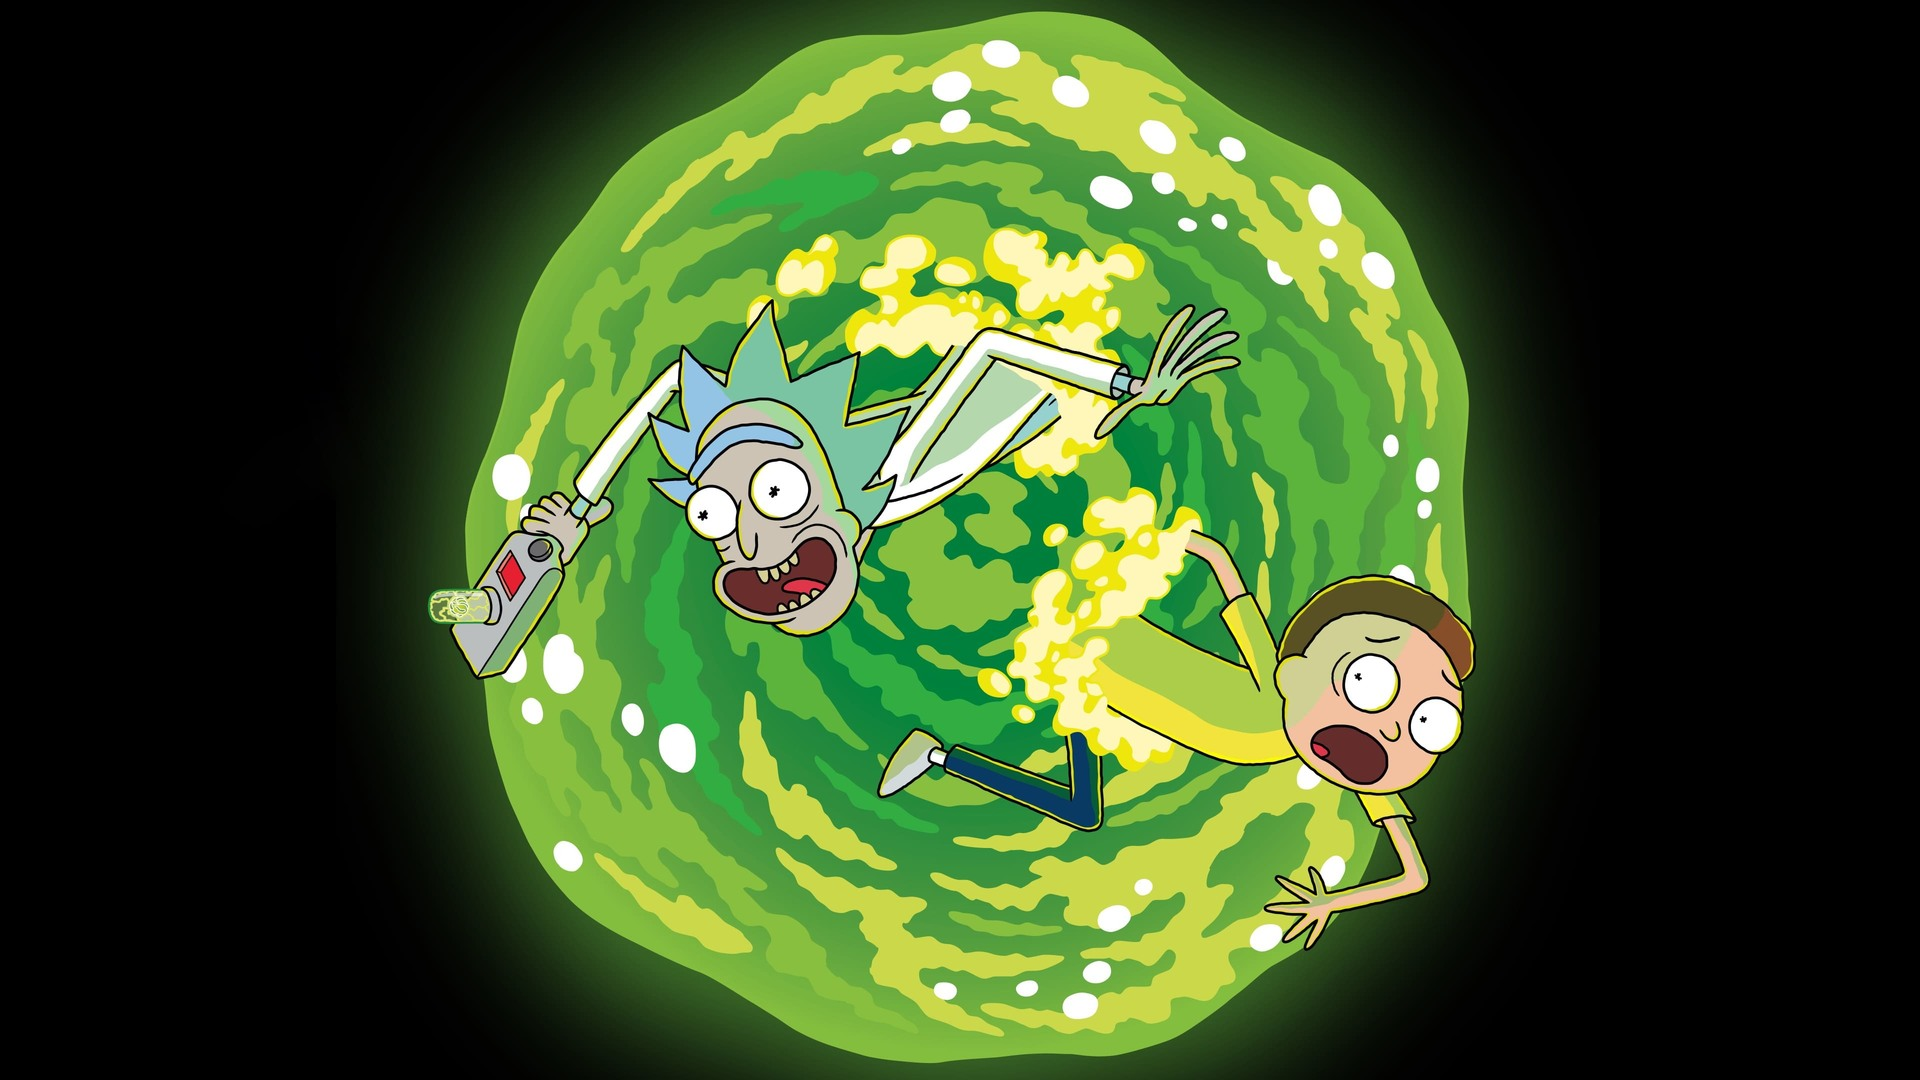
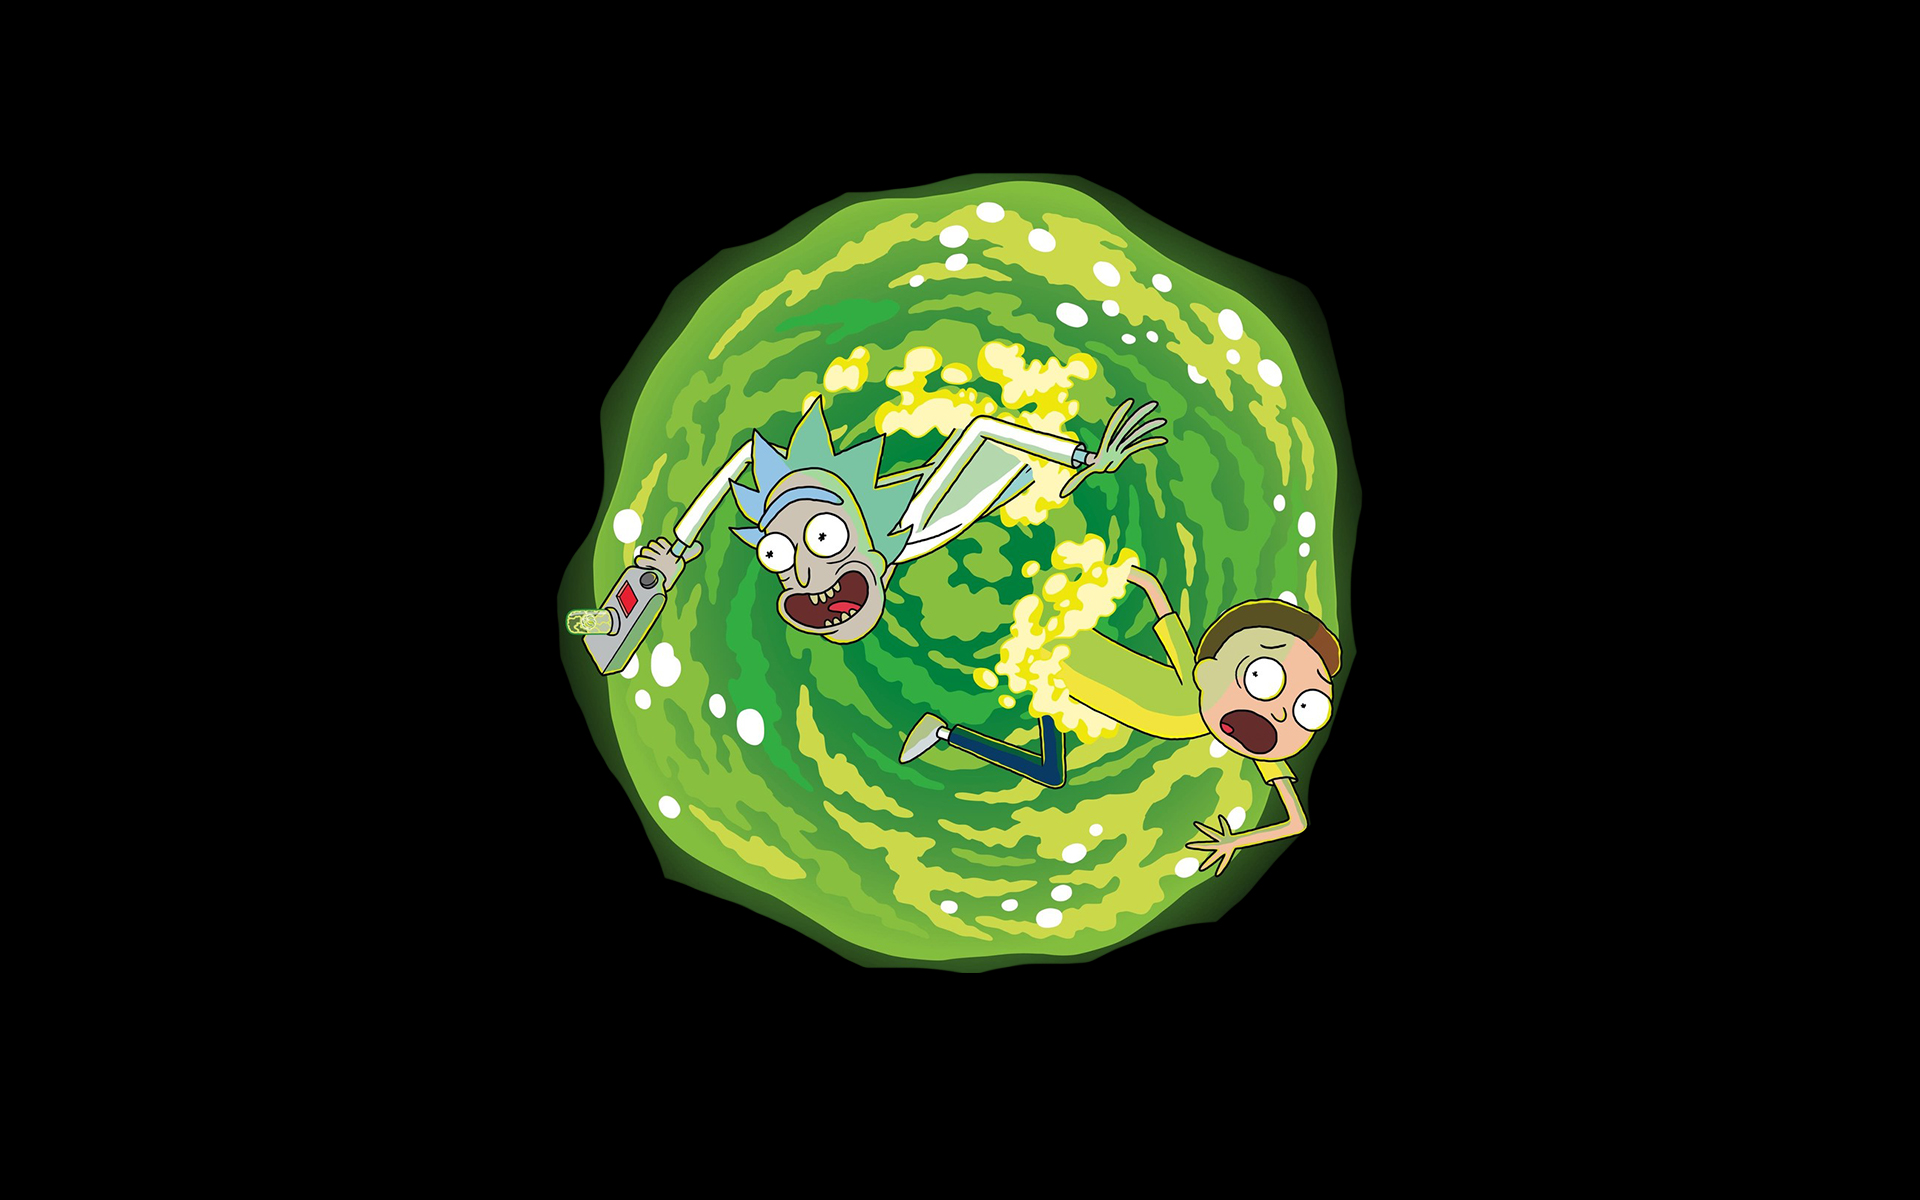
input states with stringify alert output test

diff --git a/src/components/Search.js b/src/components/Search.js
@@ -1,0 +1,38 @@
+import React, { useState } from "react";
+// Importing a SCSS file
+import "../scss/search.scss";
+
+export default function Search() {
+  const [inputName, setInputName] = useState({});
+
+  const handleChange = ({ target }) => {
+    const { name, value } = target;
+    setInputName({
+      [name]: value,
+    });
+  };
+
+  const handleSubmit = (event) => {
+    event.preventDefault();
+    // test alert
+    alert(JSON.stringify(inputName));
+  };
+
+  return (
+    <section>
+      <form onSubmit={handleSubmit} className="searchInputs">
+        <input
+          value={inputName.characterName || ""}
+          onChange={handleChange}
+          type="text"
+          name="characterName"
+          placeholder="Character Name"
+          className="searchSection"
+        />
+        <button type="submit" className="searchIcon searchSection button">
+          <img src="../images/search/pickle-rick.png" alt="search Icon" />
+        </button>
+      </form>
+    </section>
+  );
+}

diff --git a/src/App.js b/src/App.js
@@ -4,11 +4,8 @@ import { BrowserRouter as Router, Route } from "react-router-dom";
 // Importing components
 import Footer from "./components/Footer";
 // Importing Pages
-import Landing from "./pages/Landing";
-// Importing a CSS file
-import "./css/landing.css";
-
-import App from "./App";
+import Nav from "./components/Nav";
+import Landing from "./components/Landing";
 
 const client = new ApolloClient({
   uri: "https://rickandmortyapi.com/graphql",
@@ -19,7 +16,7 @@ export default function App() {
   return (
     <ApolloProvider client={client}>
       <Router>
-        <Navtop />
+        <Nav />
         <Route exact path="/">
           <Landing />
         </Route>

diff --git a/src/scss/search.scss b/src/scss/search.scss
@@ -1,0 +1,36 @@
+.searchInputs {
+  margin: 0;
+  position: absolute;
+  top: 45%;
+  left: 50%;
+  -ms-transform: translate(-50%, -50%);
+  transform: translate(-50%, -50%);
+}
+
+.searchInputs input {
+  border: 2px solid black;
+  width: 400px;
+  padding: 12px 20px;
+  margin: 5px 0;
+  box-sizing: border-box;
+}
+
+.searchIcon img {
+  width: 30px;
+  padding: 0px 0px 0px 0px;
+  margin: -11px 0px;
+  cursor: pointer;
+}
+
+.searchSection {
+  display: inline-block;
+}
+
+.button {
+  background-color: #000000;
+  border: none;
+  padding: 14px 8px;
+  text-align: center;
+  text-decoration: none;
+  display: inline-block;
+}

diff --git a/src/components/Landing.js b/src/components/Landing.js
@@ -1,13 +1,16 @@
+import Search from "../components/Search";
 // Importing a SCSS file
 import "../scss/landing.scss";
+// Importing Objects
+import { landingbackground } from "../utils/objects";
 
 export default function Landing() {
   return (
     <section className="Landing">
-      <video autoplay muted loop id="myVideo">
-        <source src="intro.mp4" type="video/mp4" />
-        Your browser does not support HTML5 video.
-      </video>
+      <style scoped>{landingbackground}</style>
+      <div className="backgimage background">
+        <Search />
+      </div>
     </section>
   );
 }

diff --git a/src/components/nav.js b/src/components/nav.js
@@ -1,12 +1,16 @@
 import { Link } from "react-router-dom";
 // Import SCSS File Dependency
+import "../scss/colors.scss";
 import "../scss/nav.scss";
 
 export default function Navtop() {
   return (
     <nav className="nav">
       <Link className="links active" to="/">
-        <img src="images/nav/nav-logo.png" alt="Rick and Morty" />
+        <img
+          src="images/nav/rickandmorty.png"
+          alt="Rick and Morty"
+        />
       </Link>
     </nav>
   );

diff --git a/src/scss/nav.scss b/src/scss/nav.scss
@@ -1,0 +1,34 @@
+$backGroundColor: #000000;
+
+.nav {
+  background-color: $backGroundColor;
+  height: 10vh;
+  width: 100vw;
+}
+
+nav {
+  img {
+    height: 100%;
+    padding: 0px 0px 0px 1%;
+  }
+}
+
+* {
+  margin: 0;
+  padding: 0;
+}
+
+html,
+body {
+  margin: 0;
+  padding: 0;
+  max-width: 100vw;
+  height: 100vh;
+  overflow-x: hidden;
+  scroll-behavior: smooth;
+  background-color: #000000;
+}
+
+::-webkit-scrollbar {
+  display: none;
+}

diff --git a/src/components/Card.js b/src/components/Card.js
@@ -1,0 +1,16 @@
+import { useQuery } from "@apollo/client";
+// Importing a SCSS file
+import "../scss/card.scss";
+// Importing Queries
+import { QUERY_CHARACTER } from "../utils/queries";
+
+export default function Footer() {
+  const { loading, data } = useQuery(QUERY_CHARACTER);
+
+  return (
+    <section>
+      <p></p>
+      <p></p>
+    </section>
+  );
+}

diff --git a/src/components/Footer.js b/src/components/Footer.js
@@ -3,8 +3,8 @@ import "../scss/footer.scss";
 
 export default function Footer() {
   return (
-    <footer className="footer">
-      <p>&#169; Rick and Morty Test Right Reserved</p>
+    <footer>
+      <p className="textf">&#169; Rick and Morty Test Right Reserved</p>
     </footer>
   );
 }

diff --git a/src/scss/landing.scss b/src/scss/landing.scss
@@ -1,0 +1,11 @@
+.background {
+  background-position: center;
+  background-repeat: no-repeat;
+  background-size: cover;
+  position: relative;
+  text-align: center;
+  height: 90vh;
+  width: 100vw;
+  min-height: 560px;
+  padding: 0% 0% 0% 0%;
+}

diff --git a/src/index.js b/src/index.js
@@ -1,5 +1,6 @@
 import React from "react";
 import ReactDOM from "react-dom";
+import App from "./App";
 
 const rootElement = document.getElementById("root");
 

diff --git a/src/scss/colors.scss b/src/scss/colors.scss
@@ -1,5 +1,4 @@
-/* sample vars */
+/* */
+$backGroundColor: #000000;
 $myFont: Helvetica, sans-serif;
-$myColor: red;
 $myFontSize: 18px;
-$myWidth: 680px;

diff --git a/src/scss/footer.scss b/src/scss/footer.scss
@@ -1,0 +1,10 @@
+$textcolor: #ffffff;
+
+footer {
+  text-align: center;
+  margin: 3px 0px 3px 0px;
+}
+
+footer p {
+  color: $textcolor;
+}
